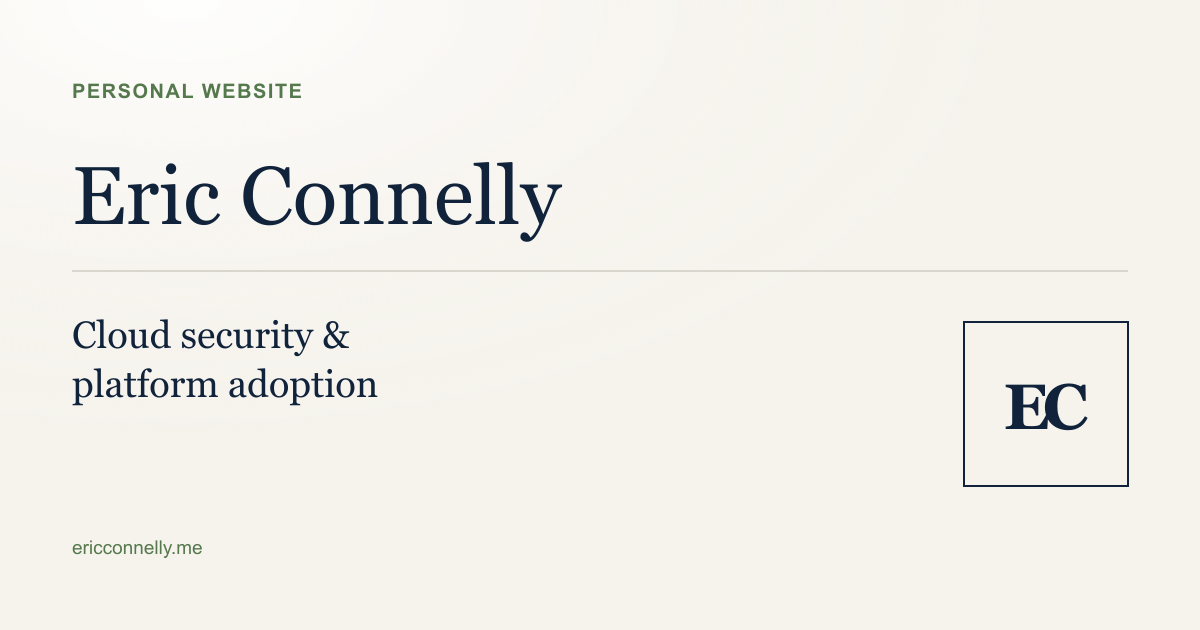
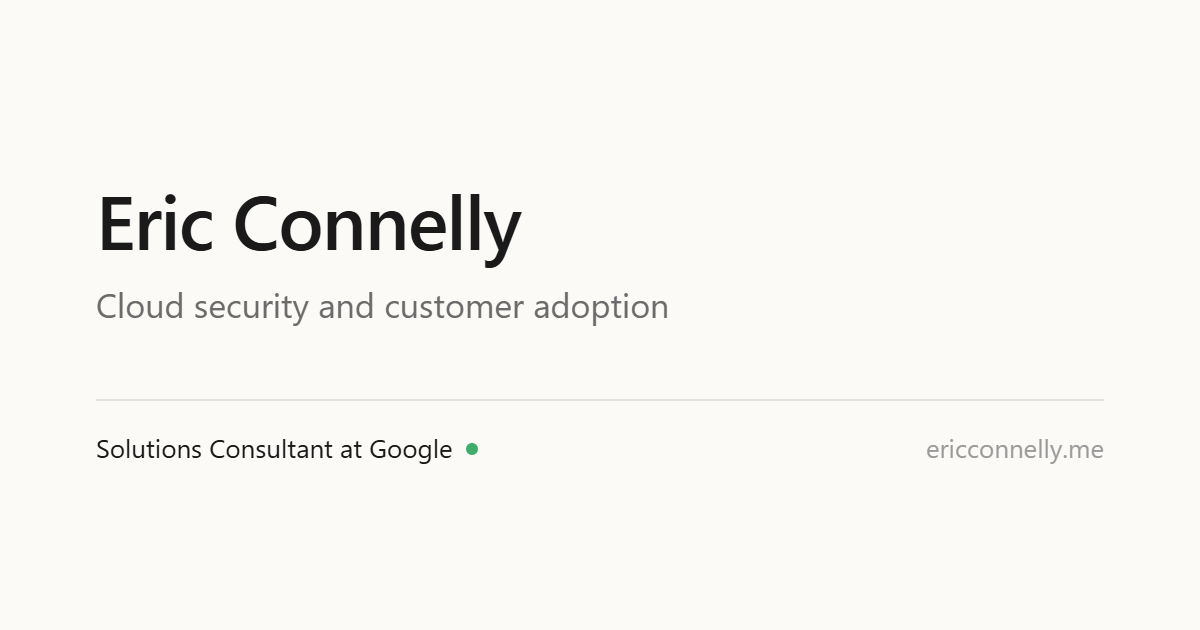
Redesign social card to match minimal site
New 1200x630 card says cloud security and customer adoption, in the minimal style. Alt text updated and image URL versioned so link previews refresh.

diff --git a/index.html b/index.html
@@ -18,16 +18,16 @@
   <meta property="og:title" content="Eric Connelly | Cloud Security &amp; Customer Advisory">
   <meta property="og:description" content="Cloud security, customer adoption, and hands-on cloud experience across Google, AWS, and TELUS Health.">
   <meta property="og:url" content="https://ericconnelly.me/">
-  <meta property="og:image" content="https://ericconnelly.me/images/eric-connelly-social-card.png">
+  <meta property="og:image" content="https://ericconnelly.me/images/eric-connelly-social-card.png?v=2">
   <meta property="og:image:type" content="image/png">
   <meta property="og:image:width" content="1200">
   <meta property="og:image:height" content="630">
-  <meta property="og:image:alt" content="Eric Connelly — Cloud security and platform adoption">
+  <meta property="og:image:alt" content="Eric Connelly — Cloud security and customer adoption">
   <meta name="twitter:card" content="summary_large_image">
   <meta name="twitter:title" content="Eric Connelly | Cloud Security &amp; Customer Advisory">
   <meta name="twitter:description" content="Cloud security, customer adoption, and hands-on cloud experience across Google, AWS, and TELUS Health.">
-  <meta name="twitter:image" content="https://ericconnelly.me/images/eric-connelly-social-card.png">
-  <meta name="twitter:image:alt" content="Eric Connelly — Cloud security and platform adoption">
+  <meta name="twitter:image" content="https://ericconnelly.me/images/eric-connelly-social-card.png?v=2">
+  <meta name="twitter:image:alt" content="Eric Connelly — Cloud security and customer adoption">
   <script type="application/ld+json">
   {
     "@context": "https://schema.org",

diff --git a/now.html b/now.html
@@ -18,16 +18,16 @@
   <meta property="og:title" content="Now — Eric Connelly">
   <meta property="og:description" content="What Eric Connelly is focused on now.">
   <meta property="og:url" content="https://ericconnelly.me/now.html">
-  <meta property="og:image" content="https://ericconnelly.me/images/eric-connelly-social-card.png">
+  <meta property="og:image" content="https://ericconnelly.me/images/eric-connelly-social-card.png?v=2">
   <meta property="og:image:type" content="image/png">
   <meta property="og:image:width" content="1200">
   <meta property="og:image:height" content="630">
-  <meta property="og:image:alt" content="Eric Connelly — Cloud security and platform adoption">
+  <meta property="og:image:alt" content="Eric Connelly — Cloud security and customer adoption">
   <meta name="twitter:card" content="summary_large_image">
   <meta name="twitter:title" content="Now — Eric Connelly">
   <meta name="twitter:description" content="What Eric Connelly is focused on now.">
-  <meta name="twitter:image" content="https://ericconnelly.me/images/eric-connelly-social-card.png">
-  <meta name="twitter:image:alt" content="Eric Connelly — Cloud security and platform adoption">
+  <meta name="twitter:image" content="https://ericconnelly.me/images/eric-connelly-social-card.png?v=2">
+  <meta name="twitter:image:alt" content="Eric Connelly — Cloud security and customer adoption">
   <script type="application/ld+json">
   {
     "@context": "https://schema.org",
